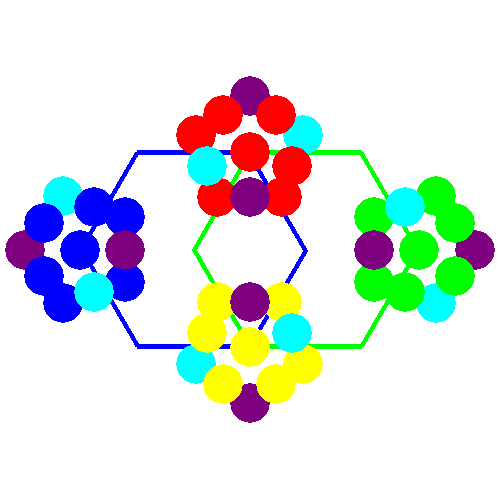
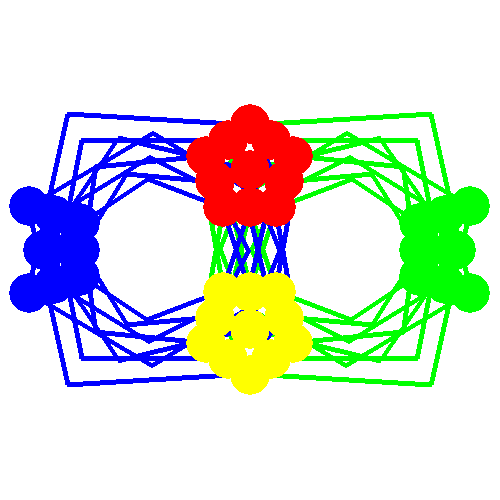
PermJS: Added ACO, updated ADA

Changed region(s): [[0.0, 0.15, 0.99, 0.87]]

diff --git a/game.js b/game.js
@@ -2441,57 +2441,93 @@ function ACO()
     var builder = new PuzzleBuilder('ACO');
 
     builder.addNode('r0', '#ff0000', '13', -0.0000, -3.5000);
-    builder.addNode('r1', '#7f007f', '8', -0.0000, -5.5000);
-    builder.addNode('r2', '#00ffff', '17', 1.9021, -4.1180);
+    builder.addNode('r1', '#ff0000', '13', -0.0000, -5.5000);
+    builder.addNode('r2', '#ff0000', '13', 1.9021, -4.1180);
     builder.addNode('r3', '#ff0000', '13', 1.1756, -1.8820);
     builder.addNode('r4', '#ff0000', '13', -1.1756, -1.8820);
     builder.addNode('r5', '#ff0000', '13', -1.9021, -4.1180);
-    builder.addNode('r6', '#7f007f', '8', -0.0000, -1.8820);
-    builder.addNode('r7', '#00ffff', '17', -1.5388, -3.0000);
+    builder.addNode('r6', '#ff0000', '13', -0.0000, -1.8820);
+    builder.addNode('r7', '#ff0000', '13', -1.5388, -3.0000);
     builder.addNode('r8', '#ff0000', '13', -0.9511, -4.8090);
     builder.addNode('r9', '#ff0000', '13', 0.9511, -4.8090);
     builder.addNode('r10', '#ff0000', '13', 1.5388, -3.0000);
     builder.addNode('y0', '#ffff00', '0', 0.0000, 3.5000);
-    builder.addNode('y1', '#7f007f', '8', 0.0000, 5.5000);
-    builder.addNode('y2', '#00ffff', '17', -1.9021, 4.1180);
+    builder.addNode('y1', '#ffff00', '0', 0.0000, 5.5000);
+    builder.addNode('y2', '#ffff00', '0', -1.9021, 4.1180);
     builder.addNode('y3', '#ffff00', '0', -1.1756, 1.8820);
     builder.addNode('y4', '#ffff00', '0', 1.1756, 1.8820);
     builder.addNode('y5', '#ffff00', '0', 1.9021, 4.1180);
-    builder.addNode('y6', '#7f007f', '8', -0.0000, 1.8820);
-    builder.addNode('y7', '#00ffff', '17', 1.5388, 3.0000);
+    builder.addNode('y6', '#ffff00', '0', -0.0000, 1.8820);
+    builder.addNode('y7', '#ffff00', '0', 1.5388, 3.0000);
     builder.addNode('y8', '#ffff00', '0', 0.9511, 4.8090);
     builder.addNode('y9', '#ffff00', '0', -0.9511, 4.8090);
     builder.addNode('y10', '#ffff00', '0', -1.5388, 3.0000);
-    builder.addNode('g0', '#00ff00', '22', 6.0622, 0.0000);
-    builder.addNode('g1', '#7f007f', '8', 8.0622, 0.0000);
-    builder.addNode('g2', '#00ffff', '17', 6.6802, 1.9021);
-    builder.addNode('g3', '#00ff00', '22', 4.4441, 1.1756);
-    builder.addNode('g4', '#00ff00', '22', 4.4441, -1.1756);
-    builder.addNode('g5', '#00ff00', '22', 6.6802, -1.9021);
-    builder.addNode('g6', '#7f007f', '8', 4.4441, 0.0000);
-    builder.addNode('g7', '#00ffff', '17', 5.5622, -1.5388);
-    builder.addNode('g8', '#00ff00', '22', 7.3712, -0.9511);
-    builder.addNode('g9', '#00ff00', '22', 7.3712, 0.9511);
-    builder.addNode('g10', '#00ff00', '22', 5.5622, 1.5388);
-    builder.addNode('b0', '#0000ff', '6', -6.0622, 0.0000);
-    builder.addNode('b1', '#7f007f', '8', -8.0622, 0.0000);
-    builder.addNode('b2', '#00ffff', '17', -6.6802, -1.9021);
-    builder.addNode('b3', '#0000ff', '6', -4.4441, -1.1756);
-    builder.addNode('b4', '#0000ff', '6', -4.4441, 1.1756);
-    builder.addNode('b5', '#0000ff', '6', -6.6802, 1.9021);
-    builder.addNode('b6', '#7f007f', '8', -4.4441, 0.0000);
-    builder.addNode('b7', '#00ffff', '17', -5.5622, 1.5388);
-    builder.addNode('b8', '#0000ff', '6', -7.3712, 0.9511);
-    builder.addNode('b9', '#0000ff', '6', -7.3712, -0.9511);
-    builder.addNode('b10', '#0000ff', '6', -5.5622, -1.5388);
-    builder.addPermutation('#00ff00', [[0, 22, 11]]);
-    builder.addPermutation('#0000ff', [[0, 11, 33]]);
-    builder.addCircleArc('#00ff00', 'r0', 4.04145188433, true, false, false);
-    builder.addCircleArc('#00ff00', 'g0', 4.04145188433, true, false, false);
-    builder.addCircleArc('#00ff00', 'y0', 4.04145188433, true, false, true);
-    builder.addCircleArc('#0000ff', 'r0', 4.04145188433, true, false, false);
-    builder.addCircleArc('#0000ff', 'y0', 4.04145188433, true, false, true);
-    builder.addCircleArc('#0000ff', 'b0', 4.04145188433, true, false, true);
+    builder.addNode('g0', '#00ff00', '22', 9.0933, 0.0000);
+    builder.addNode('g2', '#00ff00', '22', 9.7113, 1.9021);
+    builder.addNode('g3', '#00ff00', '22', 7.4752, 1.1756);
+    builder.addNode('g4', '#00ff00', '22', 7.4752, -1.1756);
+    builder.addNode('g5', '#00ff00', '22', 9.7113, -1.9021);
+    builder.addNode('g6', '#00ff00', '22', 7.4752, 0.0000);
+    builder.addNode('g7', '#00ff00', '22', 8.5933, -1.5388);
+    builder.addNode('g10', '#00ff00', '22', 8.5933, 1.5388);
+    builder.addNode('b0', '#0000ff', '6', -9.0933, 0.0000);
+    builder.addNode('b2', '#0000ff', '6', -9.7113, -1.9021);
+    builder.addNode('b3', '#0000ff', '6', -7.4752, -1.1756);
+    builder.addNode('b4', '#0000ff', '6', -7.4752, 1.1756);
+    builder.addNode('b5', '#0000ff', '6', -9.7113, 1.9021);
+    builder.addNode('b6', '#0000ff', '6', -7.4752, 0.0000);
+    builder.addNode('b7', '#0000ff', '6', -8.5933, 1.5388);
+    builder.addNode('b10', '#0000ff', '6', -8.5933, -1.5388);
+    builder.addPermutation('#00ff00', [[0, 22, 11], [1, 23, 14], [2, 24, 15], [3, 25, 16], [4, 26, 12], [6, 28, 19], [9, 29, 17], [10, 27, 18]]);
+    builder.addPermutation('#0000ff', [[0, 11, 30], [1, 15, 34], [3, 12, 31], [4, 13, 32], [5, 14, 33], [6, 20, 37], [7, 21, 35], [8, 17, 36]]);
+    builder.addCircleArc('#00ff00', 'r0', 5.22022285034, true, false, false);
+    builder.addCircleArc('#00ff00', 'g0', 5.22022285034, true, false, false);
+    builder.addCircleArc('#00ff00', 'y0', 5.22022285034, true, false, true);
+    builder.addCircleArc('#00ff00', 'r1', 6.18046253936, true, false, false);
+    builder.addCircleArc('#00ff00', 'g2', 6.18046253936, true, false, false);
+    builder.addCircleArc('#00ff00', 'y3', 6.18046253936, true, false, true);
+    builder.addCircleArc('#00ff00', 'r2', 3.94918312771, true, false, false);
+    builder.addCircleArc('#00ff00', 'g3', 3.94918312771, true, false, false);
+    builder.addCircleArc('#00ff00', 'y4', 3.94918312771, true, false, true);
+    builder.addCircleArc('#00ff00', 'r3', 3.94918312771, true, false, false);
+    builder.addCircleArc('#00ff00', 'g4', 3.94918312771, true, false, false);
+    builder.addCircleArc('#00ff00', 'y5', 3.94918312771, true, false, true);
+    builder.addCircleArc('#00ff00', 'r4', 6.18046253936, true, false, false);
+    builder.addCircleArc('#00ff00', 'g5', 6.18046253936, true, false, false);
+    builder.addCircleArc('#00ff00', 'y1', 6.18046253936, true, false, true);
+    builder.addCircleArc('#00ff00', 'r6', 5.04993939566, true, false, false);
+    builder.addCircleArc('#00ff00', 'g7', 5.04993939566, true, false, false);
+    builder.addCircleArc('#00ff00', 'y8', 5.04993939566, true, false, true);
+    builder.addCircleArc('#00ff00', 'r9', 5.04993939566, true, false, false);
+    builder.addCircleArc('#00ff00', 'g10', 5.04993939566, true, false, false);
+    builder.addCircleArc('#00ff00', 'y6', 5.04993939566, true, false, true);
+    builder.addCircleArc('#00ff00', 'r10', 3.72623517283, true, false, false);
+    builder.addCircleArc('#00ff00', 'g6', 3.72623517283, true, false, false);
+    builder.addCircleArc('#00ff00', 'y7', 3.72623517283, true, false, true);
+    builder.addCircleArc('#0000ff', 'r0', 5.22022285034, true, false, false);
+    builder.addCircleArc('#0000ff', 'y0', 5.22022285034, true, false, true);
+    builder.addCircleArc('#0000ff', 'b0', 5.22022285034, true, false, true);
+    builder.addCircleArc('#0000ff', 'r1', 6.18046253936, true, false, false);
+    builder.addCircleArc('#0000ff', 'y4', 6.18046253936, true, false, false);
+    builder.addCircleArc('#0000ff', 'b5', 6.18046253936, true, false, true);
+    builder.addCircleArc('#0000ff', 'r3', 6.18046253936, true, false, false);
+    builder.addCircleArc('#0000ff', 'y1', 6.18046253936, true, false, true);
+    builder.addCircleArc('#0000ff', 'b2', 6.18046253936, true, false, false);
+    builder.addCircleArc('#0000ff', 'r4', 3.94918312771, true, false, false);
+    builder.addCircleArc('#0000ff', 'y2', 3.94918312771, true, false, true);
+    builder.addCircleArc('#0000ff', 'b3', 3.94918312771, true, false, false);
+    builder.addCircleArc('#0000ff', 'r5', 3.94918312771, true, false, false);
+    builder.addCircleArc('#0000ff', 'y3', 3.94918312771, true, false, false);
+    builder.addCircleArc('#0000ff', 'b4', 3.94918312771, true, false, true);
+    builder.addCircleArc('#0000ff', 'r6', 5.04993939566, true, false, false);
+    builder.addCircleArc('#0000ff', 'y9', 5.04993939566, true, false, true);
+    builder.addCircleArc('#0000ff', 'b10', 5.04993939566, true, false, false);
+    builder.addCircleArc('#0000ff', 'r7', 3.72623517283, true, false, false);
+    builder.addCircleArc('#0000ff', 'y10', 3.72623517283, true, false, true);
+    builder.addCircleArc('#0000ff', 'b6', 3.72623517283, true, false, true);
+    builder.addCircleArc('#0000ff', 'r8', 5.04993939566, true, false, false);
+    builder.addCircleArc('#0000ff', 'y6', 5.04993939566, true, false, false);
+    builder.addCircleArc('#0000ff', 'b7', 5.04993939566, true, false, true);
 
     builder.recenter();
     builder.normalize();
@@ -2734,6 +2770,9 @@ function ADA()
     builder.addNode('p1', '#00ff00', '22', -0.5000, 0.8660);
     builder.addNode('p2', '#0000ff', '6', -0.5000, -0.8660);
     builder.addPermutation('#ff0000', [[0, 1, 2]]);
+    builder.addCircleArc('#ff0000', 'p0', 1, true, false, false);
+    builder.addCircleArc('#ff0000', 'p1', 1, true, false, true);
+    builder.addCircleArc('#ff0000', 'p2', 1, true, false, false);
 
     builder.recenter();
     builder.normalize();
